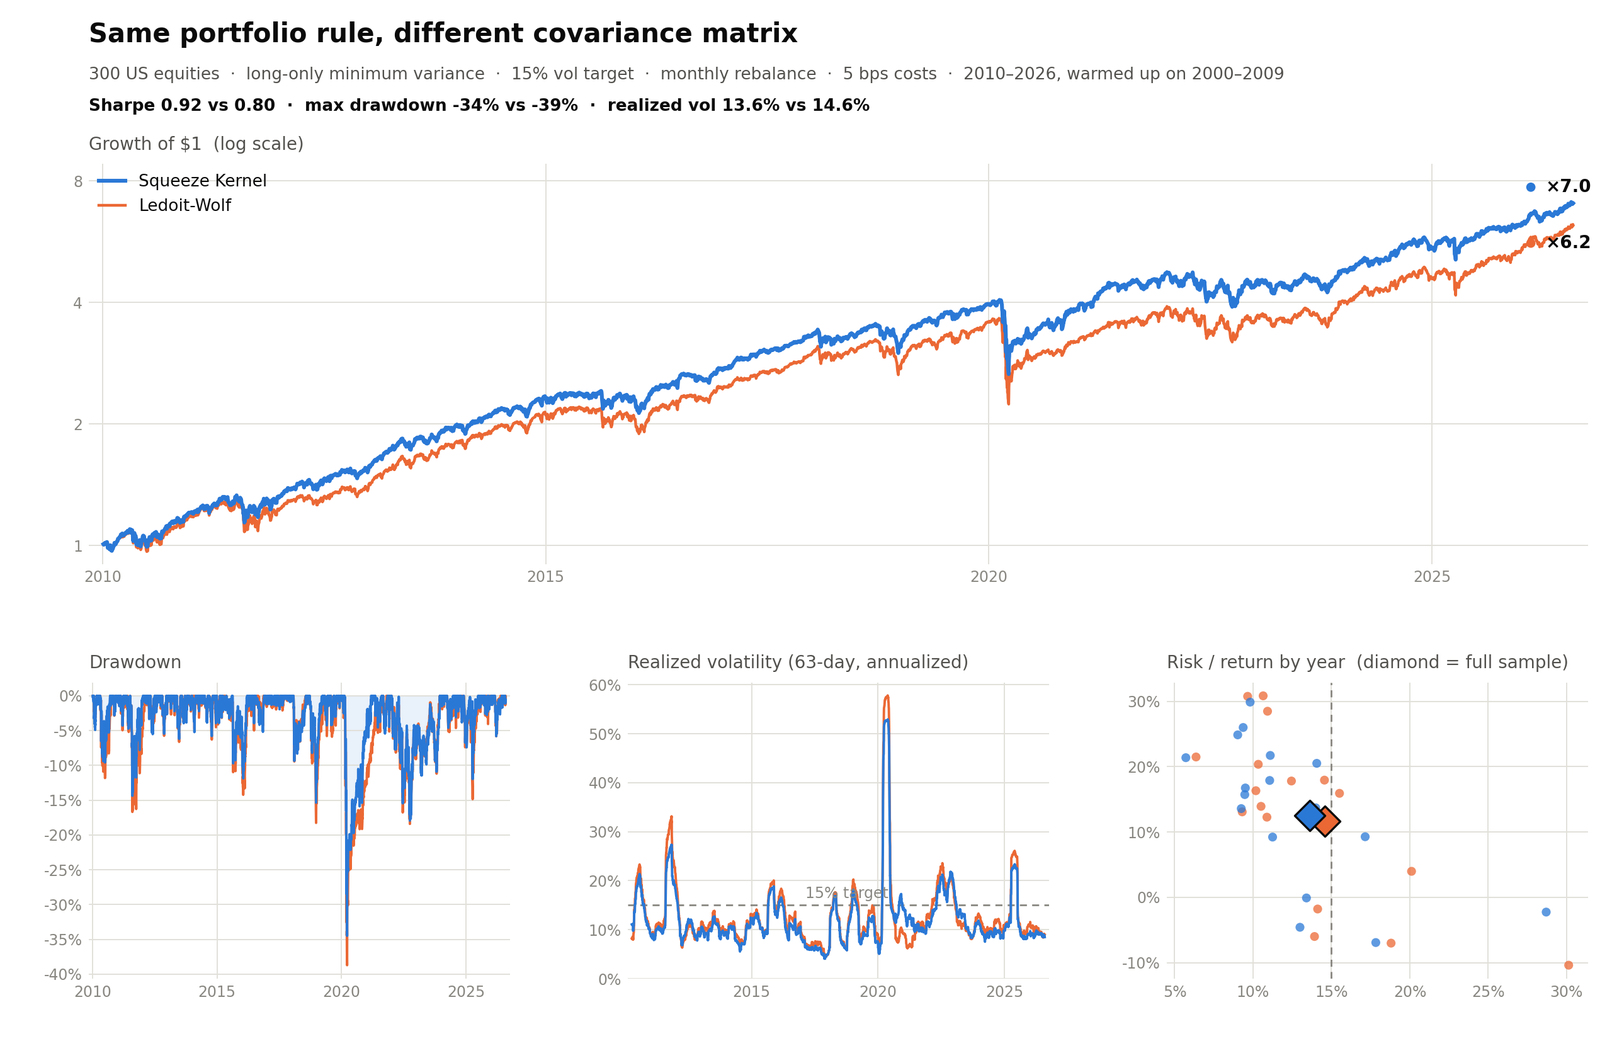
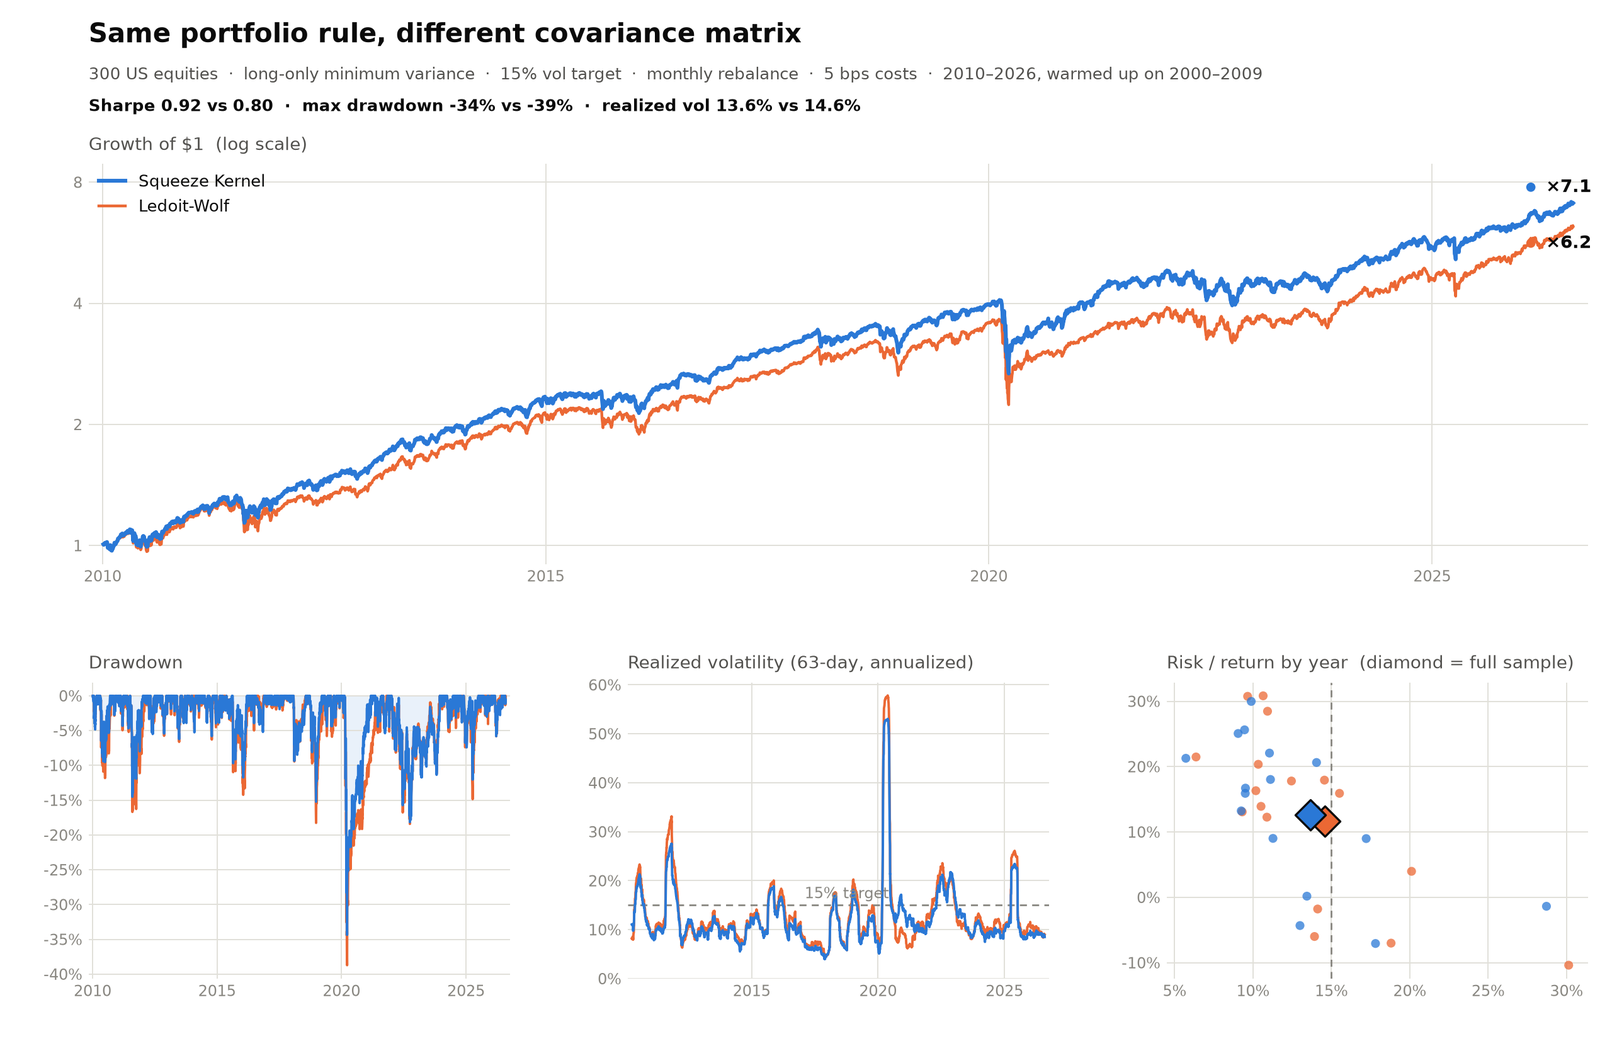
README: benchmark, out-of-sample and cost tables from the paper; limits section; showcase regenerated on 3.2.0; citation by the paper's main title

diff --git a/README.md b/README.md
@@ -5,8 +5,9 @@
 [![Python](https://img.shields.io/pypi/pyversions/squeeze-kernel.svg)](https://pypi.org/project/squeeze-kernel/)
 [![License: MIT](https://img.shields.io/badge/license-MIT-green.svg)](LICENSE)
 [![DOI](https://zenodo.org/badge/1188987927.svg)](https://doi.org/10.5281/zenodo.19170801)
+[![Paper](https://img.shields.io/badge/paper-SSRN%206455918-b31b1b.svg)](https://ssrn.com/abstract=6455918)
 
-A **streaming covariance estimator for panels of financial returns** whose entire public surface is **one number** — the decay `lam` of the anchor correlation timescale. Every other quantity is derived from it, fixed by a structural argument, or computed online from the estimator's own state. An `O(Kn²)` state update per day, positive semi-definite **by construction**, missing values handled **natively**, no tuning, no refits. Only dependency: NumPy.
+**A streaming covariance estimator for panels of financial returns that beats every fitted baseline out of sample, costs half a millisecond to ten milliseconds a day, and has one parameter.**
 
 ```python
 from squeeze_kernel import SqueezeKernel
@@ -14,28 +15,88 @@ from squeeze_kernel import SqueezeKernel
 sk = SqueezeKernel(lam=0.996)        # the entire public surface
 for r_t in returns:                  # NaN marks missing assets
     sk.update(r_t)
-cov = sk.covariance()
+cov = sk.covariance()                # positive semi-definite by construction, every day
 ```
 
-Reference: Kende (2026), *The Squeeze Kernel Covariance Estimator* — [SSRN abstract 6455918](https://ssrn.com/abstract=6455918). The 3.x estimator is described in the paper's September 2026 revision, *The Squeeze Kernel Covariance Estimator: A Diagonal-Congruence Flow in Per-Asset Trading Time*.
+- **State of the art, measured.** On thirty years of S&P 500 constituents it leads ten baselines fitted to the data (CM-IEWMA, DCC, DCC-NL, nonlinear shrinkage, Ledoit–Wolf, OAS, RMT denoising, Gerber, IEWMA, EWMA) at every universe size from 50 to 300, every Diebold–Mariano *p* below 10⁻⁷, and it is the **sole member of the 90% model confidence set at every size**. With its configuration frozen on data to 2021 it stays first on 2022–2026, on **twenty-four sealed small- and mid-cap universes it had never seen**, on a 121-instrument futures panel across eight asset classes, and on the public Fama–French 49 panel on the competing authors' own metric.
+- **Fast, with nothing that can fail.** One `O(Kn²)` state update, one Cholesky factorisation of the blend and `K` positive-definiteness checks a day. No rolling window, no likelihood refit, no daily solver. **0.54 ms a day at n = 50, 10.1 ms at n = 300.** The closest competitor on accuracy, CM-IEWMA as released by its authors, takes 18 to 51 times as long and spends most of it in a convex programme that is infeasible on about one scored day in five at n = 300.
+- **One number, no tuning.** Everything else is derived from `lam`, fixed by a structural argument, or computed online from the estimator's own state. Listings, delistings and halts enter as `NaN`. Only dependency: NumPy.
+
+Paper: Kende (2026), *The Squeeze Kernel Covariance Estimator*, [SSRN 6455918](https://ssrn.com/abstract=6455918). Every number on this page is taken from the tables of the paper's September 2026 revision, *A Diagonal-Congruence Flow in Per-Asset Trading Time*, which describes the 3.x estimator and carries the protocol, the proofs and the full ablation ledger.
+
+[Benchmarks](#benchmarks) · [See the difference](#see-the-difference) · [Installation](#installation) · [Quickstart](#quickstart) · [How it works](#how-it-works) · [Limits](#where-it-stops) · [Citation](#citation)
 
 ## Why
 
-Markets do not keep calendar time. Following Mandelbrot, the estimator treats a panel as a collection of partially coupled markets, **each advancing on its own activity-driven clock** — and reads those clocks from the panel's own correlation structure, so a hot cluster (say precious metals and FX) advances its correlation state while an idle one (agriculture) does not, without anyone identifying a cluster. On those clocks it runs a single recursion that:
+Markets do not keep calendar time. Following Mandelbrot, the estimator treats a panel as a collection of partially coupled markets, **each advancing on its own activity-driven clock**, and reads those clocks from the panel's own correlation structure: a hot cluster (say precious metals and FX) advances its correlation state while an idle one (agriculture) does not, and nobody has to identify the cluster. On those clocks it runs a single recursion that **learns in market time and forgets in calendar time**, shrinks itself from two online statistics, and re-weights its three timescales by the gradient of its own log score. Nothing is fitted but `lam`.
 
-- **is PSD at every step, structurally** — the correlation state evolves by a diagonal-congruence flow (a congruence plus a rank-one term); no eigenvalue clipping, no nearest-PSD repair, and no factorisation anywhere in the state update. (The adaptive mixture is the one exception: it reads the gradient of the blend's own log score, which costs one Cholesky factorisation of the blend and a positive-definiteness check of each timescale's block per day. Switch it off on `SqueezeKernelEstimator` and the estimator is pure `O(Kn²)`.)
-- **learns in market time and forgets in calendar time** — observations enter with a saturating, self-studentising weight (no day counts more than one unit of trading time); memory decays at fixed per-day rates on a geometric ladder of three timescales `(lam⁴, lam, lam^¼)`. Pairs accrue covariance at the geometric mean of their two clock increments, which is the most positive semi-definiteness allows and exactly the Cauchy–Schwarz bound on how far two assets' clocks can overlap. In closed form, each timescale's correlation is that of an exponentially weighted Gram matrix of the clock-weighted returns `√w·z`: day `s` enters the pair `(i, j)` with weight `√(w_i,s·w_j,s)` (market time) and is discounted by `lam_k^(t−s)` (calendar time). That makes it the natural-gradient step of the Gaussian log score, taken as a chord in calendar time on clock-weighted data; the geodesic along the same gradient would be an unbounded time change;
-- **uses each day's magnitude once** — the day's Mahalanobis norm under the estimator's own forecast, `m = r'Σ⁻¹r`, sets the clock and is then removed from the observation: the innovation carries the weight `ω = n/m`, the posterior mean of the inverse trading-time increment under a scale-free prior (Tyler's weight; the Student-t score-driven weight is the same posterior mean under an inverse-gamma prior). A day's direction moves the state; its size only says how much trading time it carried. One dot product from the factorisation the mixture already performs, no constant;
-- **regularises itself** — each timescale's shrinkage intensity is computed from two online statistics, the concentration `n/ν` (dimension per unit trading time) and the de-noised fraction of correlation dispersion the target explains; the target is the Hadamard square of the running correlation, which is exactly the correlation matrix of the *squared* returns (cluster-respecting, PSD by the Schur product theorem, and sign-blind by construction — the signs are carried by the unshrunk term). The intensity rule is the *prior* of a learned split: each timescale's shrunk correlation is a pool of its raw correlation, its equicorrelation level and its Hadamard square, whose weights are pulled toward the rule's `(1−α, α(1−α), α²)` by a fixed share and corrected online by the blend gradient;
-- **adapts its memory to regime breaks, in both stages** — the timescale mix moves by an exponentiated-gradient step on the *blend's* own log score (not on any single timescale's, which would select rather than blend): each weight follows the Fisher–Rao inner product of its timescale with the day's natural gradient, at a temperature calibrated so that uninformative evidence leaves the mix within a factor e of its prior; the marginal variance is tracked on its own three-rung ladder, two octaves below the correlation ladder, and pooled panel-wide by the same rule on saturated evidence, so one spike day cannot hand a stale rung weeks of weight. Nothing in either mixture is fitted: the ladders are derived from `lam`, the evidence memory is the fastest rung's, and the temperature is the null's;
-- **ingests missing values natively** — listings, delistings, halts enter as `NaN`;
-- **is cheap, with no solver** — `O(Kn²)` state work plus `K + 1` Cholesky factorisations a day, no iterative optimisation anywhere; a thirty-year daily pass at n = 300 takes about two minutes single-threaded (the mixture's factorisation also certifies the spectral floor of the scored blend inactive on almost every day, and supplies the observation weight for one dot product). CM-IEWMA as released by its authors takes 11–41 times as long on the same panels, most of it a daily convex programme that is infeasible on up to 19% of days at n = 300; DCC and DCC-NL are cheaper still.
+Against the field it is scored on:
 
-**Evidence.** On thirty years of S&P 500 constituents against a ten-method field, every baseline fitted on a tuning block (EWMA, DCC, DCC-NL, Ledoit–Wolf, OAS, nonlinear shrinkage, RMT filtering, Gerber, IEWMA, CM-IEWMA), it leads at every universe size from 50 to 300 and is the **sole member of the 90% model confidence set at every size**. Frozen on data to 2021, it leads the best baseline on 2022–2026 by 1.7, 3.7, 11.1 and 19.2 NLL per day at n = 50, 100, 200 and 300. On twenty-four pre-registered universes of small and mid caps sealed before any scoring (two draws of twelve) it is first on every one against a field fitted to each universe, by 13 to 18 NLL per day at n = 300; the second draw was sealed for the observation weight, which improved the estimator on eleven of the twelve, by 0.6 to 1.8 NLL per day at n ≥ 200. Carried **zero-shot** to a diversified panel of 121 futures across eight asset classes it beats the five baselines that run there, *calibrated on that panel's own history*, by 11.3 to 121 NLL per day out-of-time (the weight costs 0.5 per day on that block, its one trade-off); on the public FF49 industry panel of Johansson et al. it has the lowest regret on their own metric. The ranking holds under the Student-t and density-power scores.
+| | Squeeze Kernel | CM-IEWMA (as released) | DCC, DCC-NL | Window shrinkage (LW, OAS, NLS, RMT) |
+|---|---|---|---|---|
+| Clock | per-asset market clocks | calendar | calendar | calendar window |
+| Daily work | `O(Kn²)` update, one Cholesky, no solver | daily convex programme | GARCH recursion | re-estimate on the window |
+| Tuned in the paper | nothing: `lam = 0.996`, fixed on data to 2021 | fitted on a tuning block, re-fitted to each sealed universe | fitted on a tuning block, re-fitted to each sealed universe | fitted on a tuning block, re-fitted to each sealed universe |
+| Milliseconds a day, n = 50 → 300 | **0.54 → 10.1** | 18.8 → 182.2 | 0.05 → 0.83, 0.09 → 1.83 | not timed |
+| Days the solver fails, n = 300 | no solver | 1,196 of 6,439 scored | — | — |
+
+## Benchmarks
+
+The score is the one-step-ahead Gaussian negative log-likelihood (NLL) of the next day's returns under each estimator's forecast, averaged per day; lower is better. Every baseline is fitted on a tuning block before it is scored. The ranking holds under the Student-t and density-power scores as well.
+
+### Thirty years of S&P 500 constituents, 1995–2026
+
+Each baseline's row is its **excess NLL per day over the Squeeze Kernel**. Every Diebold–Mariano *p* is below 10⁻⁷. The Squeeze Kernel is the sole member of the 90% model confidence set at every size.
+
+| | n = 50 | n = 100 | n = 200 | n = 300 |
+|---|---:|---:|---:|---:|
+| **Squeeze Kernel, average NLL** | **−371.28** | **−753.21** | **−1539.32** | **−2334.88** |
+| CM-IEWMA | +1.63 | +4.58 | +12.45 | +20.70 |
+| DCC | +2.04 | +5.31 | +13.49 | +25.38 |
+| DCC-NL | +2.21 | +5.53 | +13.90 | +24.67 |
+| RMT denoising | +6.60 | +14.72 | +32.39 | +58.94 |
+| Gerber (PSD) | +7.00 | +15.61 | +38.82 | +62.98 |
+| Nonlinear shrinkage | +6.29 | +16.10 | +42.84 | +73.22 |
+| IEWMA | +3.98 | +16.56 | +79.79 | +224.73 |
+| EWMA | +7.10 | +19.92 | +58.71 | +80.81 |
+| Ledoit–Wolf | +6.75 | +20.44 | +60.42 | +98.94 |
+| OAS | +8.44 | +23.96 | +66.04 | +106.56 |
+
+### Out of sample, configuration frozen on data to 2021
+
+| | n = 50 | n = 100 | n = 200 | n = 300 |
+|---|---:|---:|---:|---:|
+| **S&P constituents, 2022–2026**: lead over the best baseline (CM-IEWMA at every size), NLL per day | 1.72 | 3.72 | 11.12 | 19.16 |
+| **Twenty-four sealed small- and mid-cap universes**, six per size, 2022–2026, field fitted to each universe: universes on which it is first | 6 of 6 | 6 of 6 | 6 of 6 | 6 of 6 |
+| lead over the best baseline, range | 0.1–1.2 | 2.7–4.0 | 8.6–10.9 | 13.2–17.5 |
+| sole member of the 90% model confidence set | 1 of 6 | 6 of 6 | 6 of 6 | 6 of 6 |
+
+Carried **zero-shot** to other panels, same `lam`:
+
+| Panel | Result |
+|---|---|
+| **121 futures**, eight asset classes, held out from mid-2018, baselines calibrated on that panel's own history | first; leads DCC-NL by 11.3 NLL per day (*p* = 10⁻⁸), IEWMA by 14.4, DCC by 18.2, EWMA by 36.0, Ledoit–Wolf by 121.4 |
+| **Fama–French 49 industries**, scored with the CM-IEWMA authors' own regret metric (lower is better) | **16.35**, against CM-IEWMA 16.96, IEWMA 18.20, EWMA 19.39 |
+
+### Cost
+
+Milliseconds per forecast day, single-threaded, over the full thirty-year pass:
+
+| | n = 50 | n = 100 | n = 200 | n = 300 |
+|---|---:|---:|---:|---:|
+| **Squeeze Kernel** | **0.54** | **0.91** | **2.80** | **10.1** |
+| CM-IEWMA as released | 18.8 | 46.4 | 106.8 | 182.2 |
+| of which the daily convex programme | 16.1 | 39.9 | 85.4 | 142.1 |
+| days on which the programme fails | 0 | 50 | 294 | 1,196 |
+| peak memory, GB | 2.0 | 6.4 | 22.4 | 45.3 |
+| DCC | 0.05 | 0.11 | 0.28 | 0.83 |
+| DCC-NL | 0.09 | 0.25 | 0.92 | 1.83 |
+
+Two honest footnotes. The released CM-IEWMA code overstates what the method has to cost: its linear algebra alone, with the programme treated as free, would run in 60% to 121% of the Squeeze Kernel's time. The cost is the solver, and so is the fragility. And DCC and DCC-NL are cheaper than both; they are also 13 to 25 NLL per day behind at n = 200 and 300.
 
 ## See the difference
 
-A passive strategy any allocator would recognize: long-only minimum-variance over 300 liquid US stocks, scaled to a 15% volatility target, rebalanced monthly, 5 bps costs. Two runs on identical data; the only difference is the covariance matrix. The Squeeze Kernel arm runs `SqueezeKernel(lam=0.996)` — **nothing tuned on this panel**.
+A passive strategy any allocator would recognise: long-only minimum-variance over 300 liquid US stocks, scaled to a 15% volatility target, rebalanced monthly, 5 bps costs. Two runs on identical data; the only difference is the covariance matrix. The Squeeze Kernel arm runs `SqueezeKernel(lam=0.996)`, **nothing tuned on this panel**.
 
 <picture>
   <source media="(prefers-color-scheme: dark)" srcset="https://raw.githubusercontent.com/r0k3/squeeze-kernel/main/examples/figures/vol_targeted_portfolio_dark.png">
@@ -44,14 +105,14 @@ A passive strategy any allocator would recognize: long-only minimum-variance ove
 
 | Method | CAGR | Vol | Sharpe | MaxDD | Calmar | Vol-target RMSE |
 |---|---|---|---|---|---|---|
-| **Squeeze Kernel (default)** | **12.5%** | **13.6%** | **0.92** | **-34.5%** | **0.36** | **7.05%** |
+| **Squeeze Kernel (default)** | **12.6%** | **13.6%** | **0.92** | **-34.3%** | **0.37** | **7.05%** |
 | Ledoit-Wolf (252d) | 11.7% | 14.6% | 0.80 | -38.7% | 0.30 | 7.51% |
 
 Reproduce from the repo alone (the 300-stock panel ships as a parquet; survivorship and provenance are documented in the script):
 
 ```bash
 pip install squeeze-kernel pandas pyarrow scikit-learn matplotlib
-python examples/vol_targeted_portfolio.py    # ~2 minutes
+python examples/vol_targeted_portfolio.py    # ~1 minute for the 26-year stream
 ```
 
 ## Installation
@@ -83,7 +144,31 @@ Missing values: pass `NaN` (or `mask=` on `update`). Newly listed, delisted or h
 
 Units: pass returns in decimal units (`0.01` = 1%). The numerical floors are absolute (`ε = 1e-8` in squared-return units), so percent-unit returns give a different path. A panel whose first day carries many exact-zero returns starts with a transient that the slow timescale remembers; start a day later.
 
-## What derives from `lam`
+## How it works
+
+```mermaid
+flowchart LR
+    R["return r_t<br/>(NaN = missing)"] --> V["variance ladder<br/>3 rungs per asset,<br/>pooled panel-wide"]
+    V --> Z["standardised<br/>surprise z_t"]
+    Z --> W["per-asset clocks<br/>from the correlation<br/>neighbourhood"]
+    W --> Q["diagonal-congruence update<br/>of 3 correlation timescales,<br/>outer product scaled by n/m"]
+    Q --> S["per-timescale shrinkage<br/>raw / equicorrelation /<br/>Hadamard square"]
+    S --> B["blend across timescales<br/>by the gradient of<br/>its own log score"]
+    B --> O["Σ_t"]
+```
+
+One daily update, in words:
+
+1. **Volatility with self-selected memory.** Each asset's variance runs on a three-rung ladder of half-lives (`h/16, h/4, h`), pooled panel-wide by weights that move on saturated evidence, so one spike day cannot hand a stale rung weeks of weight. The day's return is standardised by it.
+2. **Per-asset clocks.** Each asset reads its activity as the neighbourhood mean of squared surprises, weighted by the Hadamard square of yesterday's correlation (under conditional Gaussianity that square *is* the correlation of squared returns, so the neighbourhood is the asset's own cluster, no labels needed). A saturating kernel maps activity to a clock increment in `[0, 1)`: an unbounded shock is squeezed into at most one unit of trading time.
+3. **Magnitude once, direction once.** The day's Mahalanobis norm under the estimator's own forecast, `m = r'Σ⁻¹r`, sets the clocks; the innovation then enters with weight `n/m`, so a day's direction moves the state and its size only says how much trading time it carried. Score-driven and robust estimators down-weight such a day as contamination; this one reads it as time.
+4. **Diagonal-congruence flow on three timescales.** Each correlation state advances by a congruence plus a rank-one term on the clocks, with decays `(lam⁴, lam, lam^¼)`. In closed form it is an exponentially weighted Gram matrix of clock-weighted returns: pairs accrue at the geometric mean of their two clock increments, which is exactly the Cauchy–Schwarz bound on how far two clocks can overlap and the most positive semi-definiteness allows. No eigenvalue clipping, no nearest-PSD repair, any missing-data pattern.
+5. **Self-tuning, label-free shrinkage.** Each timescale's shrunk correlation is a pool of its raw correlation, its equicorrelation level and its Hadamard square. The Hadamard square suppresses cross-cluster noise quadratically (0.10 → 0.01) while keeping intra-cluster blocks (0.60 → 0.36). The pool's prior weights come from a closed-form intensity rule read off two online statistics; the blend gradient corrects them.
+6. **Blend by the gradient of the blend's own score.** The timescale weights follow an exponentiated-gradient step on the blend's log score (not any single timescale's, which would select rather than blend), at a temperature calibrated so that uninformative evidence leaves the mix within a factor *e* of its prior. Nothing in either mixture is fitted.
+
+The paper gives the derivations (natural-gradient and Gram-matrix forms of the flow, the Fisher–Rao form of the mixture), the guarantees (PSD at every step, a conditioning floor, strict positive definiteness whenever a positively weighted timescale has its intensity strictly inside (0, 1), exact reductions to the published special cases) and the full evaluation.
+
+### What derives from `lam`
 
 | quantity | value |
 |---|---|
@@ -99,9 +184,15 @@ Units: pass returns in decimal units (`0.01` = 1%). The numerical floors are abs
 
 `from squeeze_kernel import CONSTANTS` exposes the structural constants for research. The published v1 estimator (all its knobs) remains available as `SqueezeKernelEstimator` / `SqueezeKernel.v1(...)`; every mechanism since 2.0 is also an estimator-level switch for ablation. See [MIGRATION.md](MIGRATION.md).
 
-## How it works
+## Where it stops
 
-One daily update: variance on a three-rung ladder per asset, pooled by panel-wide self-adapting weights → standardised surprise → per-asset clock increments from the Schur-square-weighted neighbourhood mean of squared surprises → diagonal-congruence update of each timescale's correlation state on those clocks, the day's outer product scaled by `n/m` → per-timescale shrinkage as a learned pool of the raw correlation, its equicorrelation level and its Hadamard square, with the self-tuning intensity rule as the prior and the blend gradient as the correction → blend across timescales, moved by the gradient of the blend's own log score → covariance. The paper gives the derivations (the natural-gradient and Gram-matrix forms of the flow, the Fisher–Rao form of the mixture), the guarantees (PSD, conditioning floor, exact reductions to the published special cases), and the full evaluation.
+The paper keeps an ablation ledger, and the entries that did not go its way are on the record.
+
+- **Per-asset clocks pay on diversified panels, less reliably on equities.** Against a single global clock they gain 0.66 NLL per day on the futures panel. On S&P universes the result is mixed: +0.02 at n = 50, −0.23 at n = 100 (*p* < 10⁻⁶), +0.21 at n = 300. Equities share one market factor, so their clocks run nearly in step and there is little to resolve.
+- **The observation weight is a trade-off on one block.** It improved eleven of twelve sealed equity universes, by 0.6 to 1.8 NLL per day at n ≥ 200, and costs 0.5 per day on the futures panel.
+- **Sign-blind where fully shrunk.** The shrinkage target is the Hadamard square of the running correlation, which has no negative entries; signs live in the unshrunk term. On the S&P panel at n = 300 the fast timescale sits at full intensity throughout and emits no negative correlation on any day. On the futures panel, where a third of raw correlations are negative, a negative pair keeps its sign through the slower timescales on ordinary days, but on break days the estimator gets fewer than a third of the realised negative correlations right.
+- **Own-book VaR.** Score the 1% VaR of a minimum-variance book that was optimised against the same forecast and every method under-covers, this one included; the paper discloses the under-coverage and traces it to selecting the book on the forecast.
+- **The FF49 margin is a lead, not a rout.** 16.35 against 16.96 on the CM-IEWMA authors' own metric.
 
 ## Development
 
@@ -117,10 +208,10 @@ uv build                       # build sdist + wheel
 
 ```bibtex
 @article{kende2026squeeze,
-  title  = {The Squeeze Kernel Covariance Estimator: Dual-Timescale Tracking with Adaptive Shrinkage},
+  title  = {The Squeeze Kernel Covariance Estimator},
   author = {Kende, Robert},
   year   = {2026},
-  note   = {Available at SSRN: \url{https://ssrn.com/abstract=6455918}}
+  note   = {Working paper. Available at SSRN: \url{https://ssrn.com/abstract=6455918}}
 }
 ```
 
